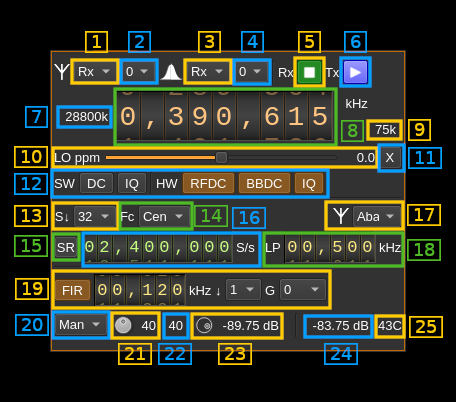
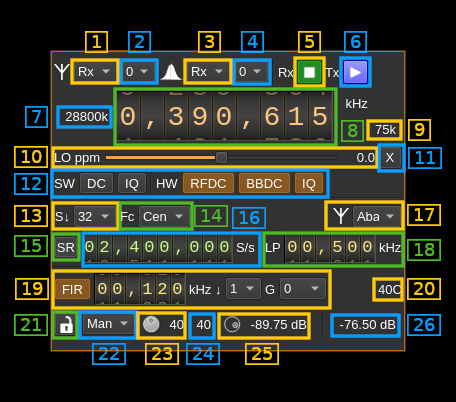
PlutoSDR MIMO: added missing gain lock button

diff --git a/plugins/samplemimo/plutosdrmimo/plutosdrmimogui.cpp b/plugins/samplemimo/plutosdrmimo/plutosdrmimogui.cpp
@@ -758,6 +758,22 @@ void PlutoSDRMIMOGUI::on_lpFIRGain_currentIndexChanged(int index)
     sendSettings();
 }
 
+void PlutoSDRMIMOGUI::on_gainLock_toggled(bool checked)
+{
+    if (!m_gainLock && checked)
+    {
+        m_settings.m_rx1GainMode = m_settings.m_rx0GainMode;
+        m_settings.m_rx1Gain = m_settings.m_rx0Gain;
+        m_settings.m_tx1Att = m_settings.m_rx0Gain;
+        blockApplySettings(true);
+        displaySettings();
+        blockApplySettings(false);
+        sendSettings();
+    }
+
+    m_gainLock = checked;
+}
+
 void PlutoSDRMIMOGUI::on_gainMode_currentIndexChanged(int index)
 {
     if (m_streamIndex == 0)

diff --git a/plugins/samplemimo/plutosdrmimo/readme.md b/plugins/samplemimo/plutosdrmimo/readme.md
@@ -197,7 +197,15 @@ The FIR filter block can provide a decimation or interpolation by 1 (no decimati
 
 The FIR filter can introduce a gain that can be set to -12, -6, 0 or 6 dB. The FIR has a fixed gain of 6 dB so to maximize dynamic range one would set the gain at -6 dB so that the overall gain is set at 0 dB.
 
-<h3>20: Rx gain mode</h3>
+<h3>20: Board temperature</h3>
+
+This is the board temperature in degrees Celsius updated every ~5s.
+
+<h3>21. Lock both streams gains</h3>
+
+When engaged this applies the same gain controls (22, 23, 25) to both streams (Rx or Tx)
+
+<h3>22: Rx gain mode</h3>
 
 Use this combo to select between gain options:
 
@@ -208,22 +216,18 @@ Use this combo to select between gain options:
 
 See AD9363 documentation for details on AGC options.
 
-<h3>21: Rx global manual gain</h3>
+<h3>23: Rx global manual gain</h3>
 
 Use this button to adjust the global gain manually in manual gain mode. This button is disabled when AGC modes are selected with combo (15).
 
-<h3>22: Actual Rx gain fetched from device</h3>
+<h3>24: Actual Rx gain fetched from device</h3>
 
 This is the actual gain in dB set in the device.
 
-<h4>23: Tx attenuation</h4>
+<h4>25: Tx attenuation</h4>
 
 Use this button to adjust the attenuation. It can be varied from -89.75 to 0 dB in 0.25 dB steps.
 
-<h3>24: Indicative RSSI</h3>
+<h3>26: Indicative RSSI</h3>
 
 This is the indicative RSSI of the receiver.
-
-<h3>25: Board temperature</h3>
-
-This is the board temperature in degrees Celsius updated every ~5s.
